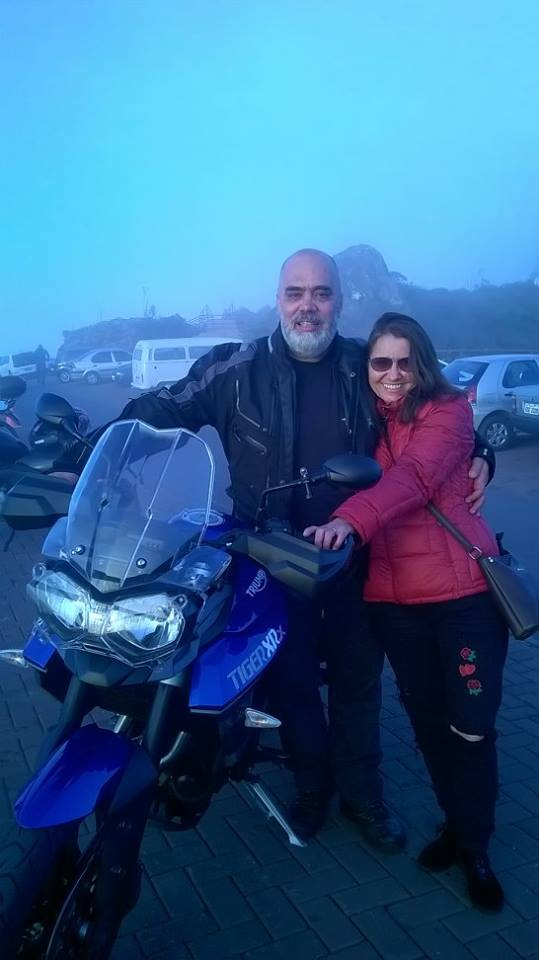
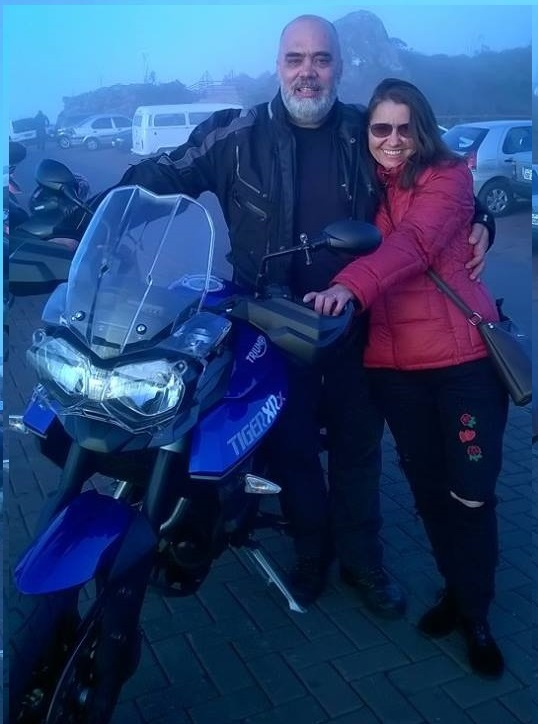
mudança no styles

diff --git a/moto.html b/moto.html
@@ -14,7 +14,7 @@
     </head>
     <body>
             <center>
-                <div id="top"><img src="./img/motoca.png" height="20%" width="10%" /> <br>
+                <div id="top"><img src="./img/motoca.png"class="img-avatar" /> <br>
                     Frederico Tomazetti</div>
             <div id="middle">
                 O motociclismo<br>
@@ -68,20 +68,20 @@
                     de sua outra paixão: A programação de computadores!
                 </p>
                 </div>
-                <img src="./img/fred_tiger_selfie.jpg" alt="" width=50% height=50%>
+                <img src="./img/fred_tiger_selfie.jpg" alt="" class="img-moto1">
                 <br>
-                <img src="./img/fred_moto1.jpg" alt="" width=25% height=25%>
-                <img src="./img/fred_moto2.jpg" alt="" width=19% height=19%>
+                <img src="./img/fred_moto1.jpg" alt="" class="img-moto2">
+                <img src="./img/fred_moto2.jpg" alt="" class="img-moto2">
 
                 <div id="bottom">
 
                     <table align="center">
                                 <tr>
-                                    <td> <a href="prog.html" title="Area de TI"> <img src="./img/dev.png" height="15%" width="65%" /> </a> </td>
-                                    <td> <a href="musica.html" title="A música"> <img src="./img/musico.png" height="15%" width="65%" /> </a> </td>
-                                    <td> <a href="index.html" title="Página inicial"> <img src="./img/avatarinicio.png" height="15%" width="65%" /> </a> </td>
-                                    <td> <a href="#top" title="Topo da página"> <img src="./img/sobe.png" height="15%" width="65%" /> </a> </td>
-                                    <td><a href="mensagem.html" title="Mande uma mensagem"> <img src="./img/mensagem.png" height="20%" width="70%" /> </a> </td>
+                                    <td> <a href="prog.html" title="Area de TI"> <img src="./img/dev.png" class="img-inferior" /> </a> </td>
+                                    <td> <a href="musica.html" title="A música"> <img src="./img/musico.png" class="img-inferior" /> </a> </td>
+                                    <td> <a href="index.html" title="Página inicial"> <img src="./img/avatarinicio.png" class="img-inferior" /> </a> </td>
+                                    <td> <a href="#top" title="Topo da página"> <img src="./img/sobe.png" class="img-inferior" /> </a> </td>
+                                    <td><a href="mensagem.html" title="Mande uma mensagem"> <img src="./img/mensagem.png" class="img-inferior" /> </a> </td>
                                 </tr>
                     </table>                    
                 </div>

diff --git a/mensagem.html b/mensagem.html
@@ -14,13 +14,13 @@
     </head>
     <body>
             <center>
-                <div id="top"><img src="./img/mensagem.png" height="30%" width="20%" /> <br>
+                <div id="top"><img src="./img/mensagem.png" class="img-avatar" /> <br>
                     Frederico Tomazetti</div>
                 <div id="middle">
                 <table aling = "center">
                 <tr>
-                    <td><a href="https://api.whatsapp.com/send?phone=+5531994976727"  target="_blank"> <img src="./img/whats.png"  height="30%" width="30%" /> </a> </td>
-                    <td><a href="https://www.linkedin.com/in/ftomazetti/"  target="_blank"> <img src="./img/linkedin.png"  height="30%" width="30%" /></a></td>
+                    <td><a href="https://api.whatsapp.com/send?phone=+5531994976727"  target="_blank"> <img src="./img/whats.png" class="img-contato" /> </a> </td>
+                    <td><a href="https://www.linkedin.com/in/ftomazetti/"  target="_blank"> <img src="./img/linkedin.png" class="img-contato" /></a></td>
                 </tr>    
                 </table>
             </div>
@@ -29,10 +29,10 @@
                         <table align="center">
                                 <tr>
 
-                                    <td> <a href="prog.html" title="Area de TI"> <img src="./img/dev.png" height="15%" width="65%" /> </a> </td>
-                                    <td> <a href="musica.html" title="A música"> <img src="./img/musico.png" height="15%" width="65%" /> </a> </td>
-                                    <td> <a href="moto.html" title="O motociclismo"> <img src="./img/motoca.png" height="15%" width="65%" /> </a> </td>
-                                    <td> <a href="index.html" title="Página inicial"> <img src="./img/avatarinicio.png" height="15%" width="65%" /> </a> </td>
+                                    <td> <a href="prog.html" title="Area de TI"> <img src="./img/dev.png" class="img-inferior2" /> </a> </td>
+                                    <td> <a href="musica.html" title="A música"> <img src="./img/musico.png" class="img-inferior2" /> </a> </td>
+                                    <td> <a href="moto.html" title="O motociclismo"> <img src="./img/motoca.png" class="img-inferior2"" /> </a> </td>
+                                    <td> <a href="index.html" title="Página inicial"> <img src="./img/avatarinicio.png" class="img-inferior2" /> </a> </td>
         
                                 </tr>
                     </table> 

diff --git a/musica.html b/musica.html
@@ -14,7 +14,7 @@
     </head>
     <body>
             <center>
-                <div id="top"><img src="./img/musico.png" height="20%" width="10%" /> <br>
+                <div id="top"><img src="./img/musico.png" class="img-avatar" /> <br>
                 Frederico Tomazetti</div>
                 <div id="middle">
                 A música<br>
@@ -53,17 +53,17 @@
                 </p>
                 </div>
 
-                <img src="./img/fred_baixo.jpg" alt="" width=25% height=25%>
-                <img src="./img/fred_baixo2.jpg" alt="" width=25% height=25%>
+                <img src="./img/fred_baixo.jpg" alt="" class="img-musica">
+                <img src="./img/fred_baixo2.jpg" alt="" class="img-musica">
 
                 <div id="bottom">
                     <table align="center">
                         <tr>
-                            <td> <a href="prog.html" title="Area de TI"> <img src="./img/dev.png" height="15%" width="65%" /> </a> </td>
-                            <td> <a href="moto.html" title="O motociclismo"> <img src="./img/motoca.png" height="15%" width="65%" /> </a> </td>
-                            <td> <a href="index.html" title="Página inicial"> <img src="./img/avatarinicio.png" height="15%" width="65%" /> </a> </td>
-                            <td> <a href="#top" title="Topo da página"> <img src="./img/sobe.png" height="15%" width="65%" /> </a> </td>
-                            <td><a href="mensagem.html" title="Mande uma mensagem"> <img src="./img/mensagem.png" height="20%" width="70%" /> </a> </td>
+                            <td> <a href="prog.html" title="Area de TI"> <img src="./img/dev.png" class="img-inferior" /> </a> </td>
+                            <td> <a href="moto.html" title="O motociclismo"> <img src="./img/motoca.png" class="img-inferior" /> </a> </td>
+                            <td> <a href="index.html" title="Página inicial"> <img src="./img/avatarinicio.png" class="img-inferior" /> </a> </td>
+                            <td> <a href="#top" title="Topo da página"> <img src="./img/sobe.png" class="img-inferior" /> </a> </td>
+                            <td><a href="mensagem.html" title="Mande uma mensagem"> <img src="./img/mensagem.png" class="img-inferior" /> </a> </td>
                         </tr>
                     </table>
                 </div>

diff --git a/styles.css b/styles.css
@@ -26,15 +26,10 @@ p {
 
 div {
     background-color: rgba(255, 255, 255, 0.842);
-    width: 50%;
-    height: 70%;
     align-items: center;
-    margin: 3px;
-    padding: 20px;
     border: 3px solid rgba(214, 214, 245, 0.753);
-    
-    
 }
+
 #top{
     color: #0a1aab;
     text-align: center;
@@ -64,16 +59,107 @@ table, th, td, tr {
     body {
       background-color: rgb(255, 255, 255);
     }
+
+    div {
+      width: 50%;
+      height: 70%;
+      margin: 3px;
+      padding: 20px;
+  }
+  .img-avatar{
+    height: 20%;
+    width: 20%;
+  }
+  .img-topo{
+      height: 20%;
+      width: 50%;
+    }
+  .img-inferior{
+      height: 20%; 
+      width: 90%;
+    }
+
+    .img-inferior2{
+      height: 20%; 
+      width: 70%;
+    }    
+  .img-mensagem{
+      height: 20%;
+      width: 20%;
+    }
+    .img-contato{
+      height: 30%; 
+      width: 30%"
+    }
+    .img-musica{
+      width: 25%;
+      height: 25%
+    }
+    .img-moto1{
+      width: 50%;
+      height: 50%;
+    }
+    .img-moto2{
+      width: 25%;
+      height: 25%;
+    }
+
   }
 
   @media screen and (max-width: 992px) {
     body {
-      background-color: rgb(235, 189, 189);
-      width: 300%;
+      background-color: rgb(231, 222, 222);
+      width: 95%;
       height: 100%;
       align-items: center;
-      margin: 3px;
+      margin: 3px,3px,3px,3px;
       padding: 3px;
       border: 3px solid rgba(214, 214, 245, 0.753);
     }
+
+    div {
+      width: 90%;
+      height: 100%;
+      margin: 3px;
+      padding: 5px;
   }
+    .img-topo{
+      height: 15%;
+      width: 80%;
+    }
+
+    .img-inferior{
+      height: 10%; 
+      width: 100%;
+    }
+    .img-inferior2{
+      height: 10%; 
+      width: 70%;
+    }
+    .img-avatar{
+      height: 20%;
+      width: 35%;
+    }
+    .img-mensagem{
+      height: 15%;
+      width: 30%;
+    }
+    .img-contato{
+      height: 30%; 
+      width: 30%"
+    }
+    .img-musica{
+      width: 45%;
+      height: 30%
+    }
+    .img-moto1{
+      width: 80%;
+      height: 60%;
+    }
+    .img-moto2{
+      width: 40%;
+      height: 40%;
+    }
+
+  }
+  

diff --git a/index.html b/index.html
@@ -3,7 +3,7 @@
     <head>
         <title>Frederico Tomazetti</title>
         <meta name="viewport" content="width=device-width, initial-scale=1.0" charset="utf-8">
-        <link rel="stylesheet" href="styles.css">
+        <link rel="stylesheet" type="text/css" href="styles.css">
         <style>
             @media print {
                 .screen-only {
@@ -14,14 +14,14 @@
     </head>
     <body>
             <center>
-                <div id="top"><img src="./img/fred_avatar.jpg" height="60" width="60" /> <br>
+                <div id="top"><img src="./img/fred_avatar.jpg" class="img-avatar" /> <br>
                         Frederico Tomazetti</div>
                 <div id="middle">
                 <table align="center" height="100%" width = "100%">
                 <tr>
-                <td><a href="prog.html" title="Area de TI"> <img src="./img/dev.png" height="20%" width=50%" /> </a></td>
-                <td><a href="musica.html" title="A música"> <img src="./img/musico.png" height="20%" width="50%" /> </a> </td>
-                <td><a href="moto.html" title="O motociclismo"> <img src="./img/motoca.png" height="20%" width="50%" /> </a></td> 
+                <td><a href="prog.html" title="Area de TI"> <img src="./img/dev.png"  class="img-topo"/> </a></td>
+                <td><a href="musica.html" title="A música"> <img src="./img/musico.png" class="img-topo"/> </a> </td>
+                <td><a href="moto.html" title="O motociclismo"> <img src="./img/motoca.png"  class="img-topo"/> </a></td> 
                 </tr>
                 </table>
                 </div>
@@ -50,7 +50,7 @@
     
                     <center>
                         <h4>Belo Horizonte MG 2020</h4>
-                        <a href="mensagem.html" title="Mande uma mensagem"> <img src="./img/mensagem.png" height="30%" width="20%" /> </a> 
+                        <a href="mensagem.html" title="Mande uma mensagem"> <img src="./img/mensagem.png" class="img-mensagem" /> </a> 
                     </center>
                 </div>
             </center>

diff --git a/prog.html b/prog.html
@@ -14,7 +14,7 @@
     </head>
     <body>
             <center>
-                <div id="top"><img src="./img/dev.png" height="20%" width="10%" /> <br>
+                <div id="top"><img src="./img/dev.png" class="img-avatar" /> <br>
                     Frederico Tomazetti</div>
                     <div id="middle">
                 A área de TI<br>
@@ -69,11 +69,11 @@
                         <table align="center">
                                 <tr>
 
-                                    <td> <a href="musica.html" title="A musica"> <img src="./img/musico.png" height="15%" width="65%" /> </a> </td>
-                                    <td> <a href="moto.html" title="O motociclismo"> <img src="./img/motoca.png" height="15%" width="65%" /> </a> </td>
-                                    <td> <a href="index.html" title="Página inicial"> <img src="./img/avatarinicio.png" height="15%" width="65%" /> </a> </td>
-                                    <td> <a href="#top" title="Topo da página"> <img src="./img/sobe.png" height="15%" width="65%" /> </a> </td>
-                                    <td><a href="mensagem.html" title="Mande uma mensagem"> <img src="./img/mensagem.png" height="20%" width="70%" /> </a> </td>
+                                    <td> <a href="musica.html" title="A musica"> <img src="./img/musico.png" class="img-inferior" /> </a> </td>
+                                    <td> <a href="moto.html" title="O motociclismo"> <img src="./img/motoca.png" class="img-inferior" /> </a> </td>
+                                    <td> <a href="index.html" title="Página inicial"> <img src="./img/avatarinicio.png" class="img-inferior" /> </a> </td>
+                                    <td> <a href="#top" title="Topo da página"> <img src="./img/sobe.png" class="img-inferior" /> </a> </td>
+                                    <td><a href="mensagem.html" title="Mande uma mensagem"> <img src="./img/mensagem.png" class="img-inferior" /> </a> </td>
         
                                 </tr>
                     </table> 
